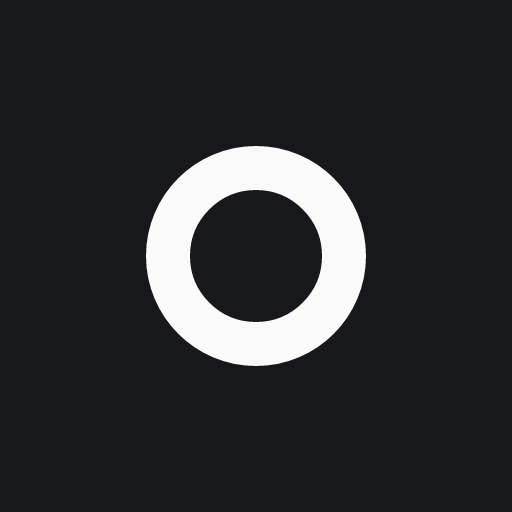
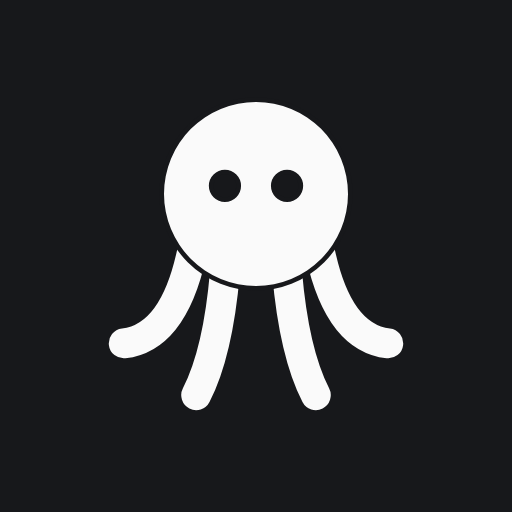
Значок Okto: осьминог, прежнее кольцо — на выбор в Android
Новый значок для сайта (favicon, PWA) и Android (лаунчер, заставка),
генерируется из одной геометрии tools/icons/build.mjs. В «Настройках
виджета» можно вернуть кольцо: два activity-alias, включён один.

Changed region(s): [[0.1875, 0.1875, 0.8125, 0.8125]]

diff --git a/android/app/src/main/java/com/sailxx/okto/ui/WidgetSettingsActivity.kt b/android/app/src/main/java/com/sailxx/okto/ui/WidgetSettingsActivity.kt
@@ -6,7 +6,10 @@ import android.os.Bundle
 import androidx.activity.ComponentActivity
 import androidx.activity.compose.setContent
 import androidx.activity.enableEdgeToEdge
+import androidx.compose.foundation.Image
 import androidx.compose.foundation.background
+import androidx.compose.foundation.border
+import androidx.compose.foundation.clickable
 import androidx.compose.foundation.layout.Arrangement
 import androidx.compose.foundation.layout.Box
 import androidx.compose.foundation.layout.Column
@@ -35,7 +38,9 @@ import androidx.compose.runtime.setValue
 import androidx.compose.ui.Alignment
 import androidx.compose.ui.Modifier
 import androidx.compose.ui.draw.clip
+import androidx.compose.ui.graphics.Color
 import androidx.compose.ui.platform.LocalContext
+import androidx.compose.ui.res.painterResource
 import androidx.compose.ui.text.TextStyle
 import androidx.compose.ui.text.font.FontFamily
 import androidx.compose.ui.text.font.FontWeight
@@ -46,6 +51,8 @@ import androidx.glance.appwidget.updateAll
 import com.google.firebase.Firebase
 import com.google.firebase.auth.auth
 import com.sailxx.okto.R
+import com.sailxx.okto.data.AppIcon
+import com.sailxx.okto.data.OktoPalette
 import com.sailxx.okto.data.OktoRepository
 import com.sailxx.okto.data.signInWithGoogle
 import com.sailxx.okto.data.signOut
@@ -145,5 +152,44 @@ private fun MainScreen(activity: ComponentActivity) {
             }
             error?.let { BasicText(it, style = TextStyle(color = p.red, fontSize = 13.sp)) }
         }
+        Spacer(Modifier.height(28.dp))
+        IconPicker(p)
     }
 }
+
+@Composable
+private fun IconPicker(p: OktoPalette) {
+    val ctx = LocalContext.current
+    var icon by remember { mutableStateOf(AppIcon.current(ctx)) }
+    MonoLabel(ctx.getString(R.string.app_icon), p.muted)
+    Spacer(Modifier.height(10.dp))
+    Row(horizontalArrangement = Arrangement.spacedBy(12.dp)) {
+        AppIcon.entries.forEach { option ->
+            val selected = option == icon
+            Column(
+                Modifier
+                    .clip(RoundedCornerShape(16.dp))
+                    .border(2.dp, if (selected) p.ink else p.line, RoundedCornerShape(16.dp))
+                    .clickable(enabled = !selected) {
+                        AppIcon.set(ctx, option)
+                        icon = option
+                    }
+                    .padding(horizontal = 18.dp, vertical = 12.dp),
+                horizontalAlignment = Alignment.CenterHorizontally,
+            ) {
+                Image(
+                    painterResource(option.preview),
+                    contentDescription = null,
+                    Modifier.size(64.dp).clip(CircleShape).background(IconBg),
+                )
+                Spacer(Modifier.height(8.dp))
+                BasicText(ctx.getString(option.label), style = TextStyle(color = p.ink, fontSize = 14.sp, fontWeight = if (selected) FontWeight.Bold else FontWeight.Normal))
+            }
+        }
+    }
+    Spacer(Modifier.height(8.dp))
+    BasicText(ctx.getString(R.string.icon_hint), style = TextStyle(color = p.muted, fontSize = 13.sp))
+}
+
+/** Фон значка, как @color/icon_bg */
+private val IconBg = Color(0xFF17181B)

diff --git a/android/app/src/main/java/com/sailxx/okto/data/AppIcon.kt b/android/app/src/main/java/com/sailxx/okto/data/AppIcon.kt
@@ -1,0 +1,33 @@
+package com.sailxx.okto.data
+
+import android.content.ComponentName
+import android.content.Context
+import android.content.pm.PackageManager
+import com.sailxx.okto.R
+
+/** Значок Okto на рабочем столе: каждому соответствует activity-alias в манифесте. */
+enum class AppIcon(val alias: String, val preview: Int, val label: Int) {
+    Octo(".LauncherOcto", R.drawable.ic_launcher_foreground, R.string.icon_octo),
+    Ring(".LauncherRing", R.drawable.ic_launcher_ring_foreground, R.string.icon_ring);
+
+    private fun component(ctx: Context) = ComponentName(ctx, "com.sailxx.okto$alias")
+
+    companion object {
+        fun current(ctx: Context): AppIcon = entries.firstOrNull {
+            when (ctx.packageManager.getComponentEnabledSetting(it.component(ctx))) {
+                PackageManager.COMPONENT_ENABLED_STATE_ENABLED -> true
+                PackageManager.COMPONENT_ENABLED_STATE_DEFAULT -> it == Octo // по умолчанию в манифесте
+                else -> false
+            }
+        } ?: Octo
+
+        /** Сначала включаем новый alias, потом выключаем старые — чтобы значок не пропал совсем. */
+        fun set(ctx: Context, icon: AppIcon) {
+            val pm = ctx.packageManager
+            pm.setComponentEnabledSetting(icon.component(ctx), PackageManager.COMPONENT_ENABLED_STATE_ENABLED, PackageManager.DONT_KILL_APP)
+            entries.filter { it != icon }.forEach {
+                pm.setComponentEnabledSetting(it.component(ctx), PackageManager.COMPONENT_ENABLED_STATE_DISABLED, PackageManager.DONT_KILL_APP)
+            }
+        }
+    }
+}
